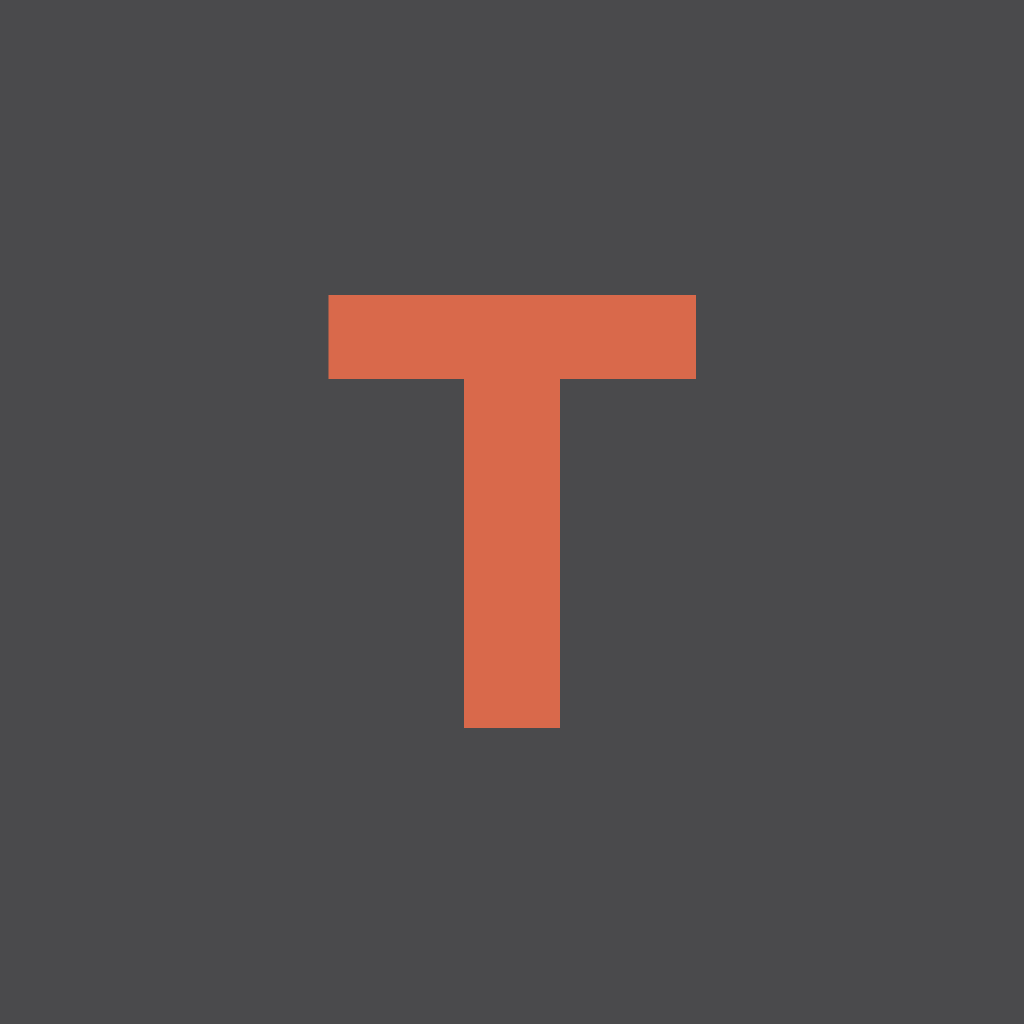
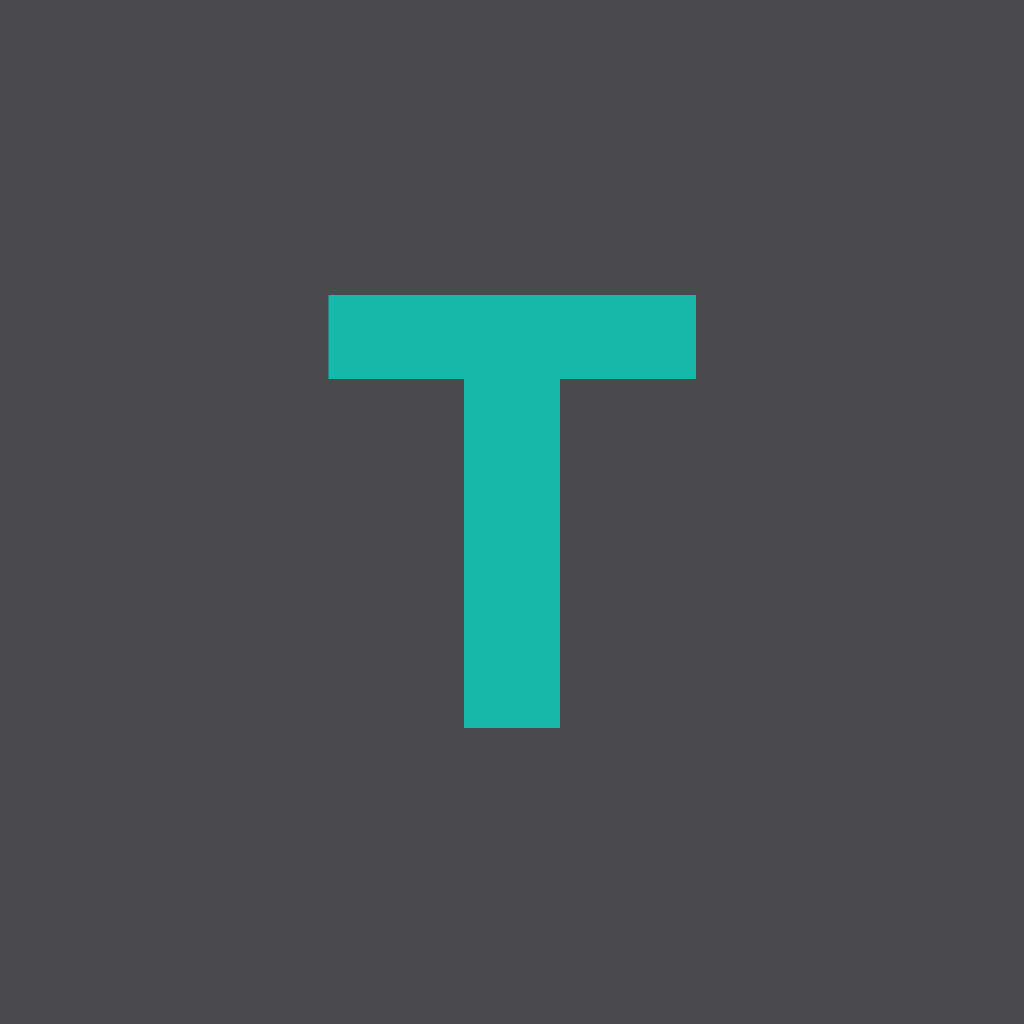
Refine Always On mode and switch the color palette from orange to teal
Always On mode: prioritizes the most popular nearby place (by rating
count, not just nearest), adds a configurable minimum gap between spoken
readings, and never interrupts a reading already in progress.

Palette: accent color is now a turquoise/teal instead of orange across
the app (theme, map markers, notification tint, PWA manifest, app icon),
with cooler neutral grays to match. Dark mode's background stays dark
gray/near-black as before.

Changed region(s): [[0.3125, 0.2812, 0.6875, 0.7188]]

diff --git a/app/src/services/proximity.ts b/app/src/services/proximity.ts
@@ -2,6 +2,7 @@ import AsyncStorage from '@react-native-async-storage/async-storage';
 import { createAudioPlayer } from 'expo-audio';
 import * as Speech from 'expo-speech';
 
+import { DEFAULT_READ_FREQUENCY_MINUTES, READ_FREQUENCY_STORAGE_KEY } from '@/hooks/use-always-on-frequency';
 import { PROXIMITY_CHANNEL_ID, presentNotification } from '@/services/notifications';
 import { fetchLocationFacts, fetchNearbyArticles, fetchNearbyPlaces, type NearbyPlace } from '@/services/api';
 import { sanitizeForSpeech } from '@/utils/speech-text';
@@ -12,6 +13,7 @@ import { sanitizeForSpeech } from '@/utils/speech-text';
 const CONTENT_MODE_KEY = 'traveltales:content-mode';
 const READ_PREFERENCE_KEY = 'traveltales:read-preference';
 const NOTIFIED_STORAGE_KEY = 'traveltales:always-on-notified';
+const LAST_SPOKEN_STORAGE_KEY = 'traveltales:always-on-last-spoken-at';
 
 // A tight "you're basically right next to this" radius — separate from the user's browse
 // radius setting, since a drive-by ping should only fire for things genuinely nearby.
@@ -29,6 +31,19 @@ interface NotifiedEntry {
 
 function placeKey(place: NearbyPlace): string {
   return `place:${place.id}`;
+}
+
+// Rating count is a much better "this is a well-known, popular spot" signal than rating
+// alone (a hidden gem can have a perfect 5.0 from 3 reviews) — sort on that first, with
+// rating as a tiebreaker, so the pick prioritizes fame over raw distance.
+function popularityScore(place: NearbyPlace): number {
+  const ratingCount = place.userRatingCount ?? 0;
+  const rating = place.rating ?? 0;
+  return ratingCount * 1000 + rating;
+}
+
+function byPopularity(places: NearbyPlace[]): NearbyPlace[] {
+  return [...places].sort((a, b) => popularityScore(b) - popularityScore(a));
 }
 
 async function loadNotified(): Promise<NotifiedEntry[]> {
@@ -106,7 +121,7 @@ export async function checkProximityAndNotify(coords: Coords): Promise<void> {
     return;
   }
 
-  const candidate = places.find((place) => !notified.some((entry) => entry.key === placeKey(place)));
+  const candidate = byPopularity(places).find((place) => !notified.some((entry) => entry.key === placeKey(place)));
   if (!candidate) return;
 
   await markNotified(notified, placeKey(candidate));
@@ -156,6 +171,20 @@ export async function checkProximityAndNotify(coords: Coords): Promise<void> {
   });
 
   if (autoRead) {
-    await playChimeThenSpeak(speakText);
+    const alreadySpeaking = await Speech.isSpeakingAsync();
+    const [lastSpokenAtRaw, frequencyRaw] = await Promise.all([
+      AsyncStorage.getItem(LAST_SPOKEN_STORAGE_KEY),
+      AsyncStorage.getItem(READ_FREQUENCY_STORAGE_KEY),
+    ]);
+    const lastSpokenAt = lastSpokenAtRaw ? Number(lastSpokenAtRaw) : 0;
+    const frequencyMinutes = frequencyRaw && Number(frequencyRaw) > 0 ? Number(frequencyRaw) : DEFAULT_READ_FREQUENCY_MINUTES;
+    const dueForNextRead = Date.now() - lastSpokenAt >= frequencyMinutes * 60 * 1000;
+
+    // Never cut off a reading in progress, and respect the configured minimum gap between
+    // readings so Always On mode isn't talking constantly through a dense stretch of stops.
+    if (!alreadySpeaking && dueForNextRead) {
+      await AsyncStorage.setItem(LAST_SPOKEN_STORAGE_KEY, String(Date.now())).catch(() => {});
+      await playChimeThenSpeak(speakText);
+    }
   }
 }

diff --git a/app/src/app/(tabs)/settings.tsx b/app/src/app/(tabs)/settings.tsx
@@ -7,6 +7,7 @@ import { ThemedText } from '@/components/themed-text';
 import { ThemedView } from '@/components/themed-view';
 import { MaxContentWidth, Spacing } from '@/constants/theme';
 import { useAlwaysOnMode } from '@/hooks/use-always-on-mode';
+import { READ_FREQUENCY_OPTIONS_MINUTES, useAlwaysOnFrequency } from '@/hooks/use-always-on-frequency';
 import { useContentMode, type ContentMode } from '@/hooks/use-content-mode';
 import { useReadPreference, type ReadPreference } from '@/hooks/use-read-preference';
 import { useTheme } from '@/hooks/use-theme';
@@ -62,6 +63,7 @@ export default function SettingsScreen() {
   const { mode, setMode } = useContentMode();
   const { preference, setPreference } = useReadPreference();
   const { enabled: alwaysOnEnabled, loading: alwaysOnLoading, error: alwaysOnError, setEnabled: setAlwaysOnEnabled } = useAlwaysOnMode();
+  const { frequencyMinutes, setFrequencyMinutes } = useAlwaysOnFrequency();
   const theme = useTheme();
 
   return (
@@ -159,6 +161,30 @@ export default function SettingsScreen() {
                 {alwaysOnError}
               </ThemedText>
             )}
+
+            <ThemedView style={[styles.frequencyRow, { borderTopColor: theme.border }]}>
+              <ThemedText type="small" themeColor="textSecondary">
+                Minimum time between readings
+              </ThemedText>
+              <ThemedView style={styles.frequencyChips}>
+                {READ_FREQUENCY_OPTIONS_MINUTES.map((minutes) => {
+                  const selected = minutes === frequencyMinutes;
+                  return (
+                    <Pressable
+                      key={minutes}
+                      onPress={() => setFrequencyMinutes(minutes)}
+                      style={[
+                        styles.frequencyChip,
+                        { backgroundColor: selected ? theme.accent : theme.backgroundSelected, borderColor: selected ? theme.accent : theme.border },
+                      ]}>
+                      <ThemedText type="smallBold" themeColor={selected ? 'accentContrast' : 'text'}>
+                        {minutes}m
+                      </ThemedText>
+                    </Pressable>
+                  );
+                })}
+              </ThemedView>
+            </ThemedView>
           </ThemedView>
 
           <ThemedText type="smallBold" style={styles.sectionSpacing}>
@@ -233,5 +259,22 @@ const styles = StyleSheet.create({
     borderRadius: Spacing.four,
     borderWidth: 1.5,
     padding: Spacing.three,
+  },
+  frequencyRow: {
+    marginTop: Spacing.one,
+    paddingTop: Spacing.three,
+    borderTopWidth: 1,
+    gap: Spacing.two,
+  },
+  frequencyChips: {
+    flexDirection: 'row',
+    flexWrap: 'wrap',
+    gap: Spacing.two,
+  },
+  frequencyChip: {
+    borderRadius: Spacing.five,
+    borderWidth: 1.5,
+    paddingVertical: Spacing.one,
+    paddingHorizontal: Spacing.three,
   },
 });

diff --git a/app/src/hooks/use-always-on-frequency.ts b/app/src/hooks/use-always-on-frequency.ts
@@ -1,0 +1,31 @@
+import AsyncStorage from '@react-native-async-storage/async-storage';
+import { useCallback, useEffect, useState } from 'react';
+
+// Read directly (no context/provider) by both the Settings screen and the background
+// proximity task (services/proximity.ts) — the task has no React tree to read a context
+// from, so both sides just go straight to AsyncStorage under this same key.
+export const READ_FREQUENCY_STORAGE_KEY = 'traveltales:always-on-read-frequency-minutes';
+export const READ_FREQUENCY_OPTIONS_MINUTES = [5, 10, 15, 30, 60];
+export const DEFAULT_READ_FREQUENCY_MINUTES = 15;
+
+export function useAlwaysOnFrequency() {
+  const [frequencyMinutes, setFrequencyMinutesState] = useState<number>(DEFAULT_READ_FREQUENCY_MINUTES);
+
+  useEffect(() => {
+    AsyncStorage.getItem(READ_FREQUENCY_STORAGE_KEY).then((stored) => {
+      const parsed = stored ? Number(stored) : NaN;
+      if (!Number.isNaN(parsed) && READ_FREQUENCY_OPTIONS_MINUTES.includes(parsed)) {
+        setFrequencyMinutesState(parsed);
+      }
+    });
+  }, []);
+
+  const setFrequencyMinutes = useCallback((minutes: number) => {
+    setFrequencyMinutesState(minutes);
+    AsyncStorage.setItem(READ_FREQUENCY_STORAGE_KEY, String(minutes)).catch(() => {
+      // Non-fatal: the setting still applies for this session even if persistence fails.
+    });
+  }, []);
+
+  return { frequencyMinutes, setFrequencyMinutes };
+}

diff --git a/app/src/constants/theme.ts b/app/src/constants/theme.ts
@@ -9,24 +9,24 @@ import { Platform } from 'react-native';
 
 export const Colors = {
   light: {
-    text: '#181511',
-    background: '#FAF8F5',
+    text: '#11181A',
+    background: '#F5F9F9',
     backgroundElement: '#FFFFFF',
-    backgroundSelected: '#FBE9E2',
-    textSecondary: '#6B6560',
-    accent: '#D9694B',
+    backgroundSelected: '#DEF4F1',
+    textSecondary: '#5B6D6C',
+    accent: '#0E9C90',
     accentContrast: '#FFFFFF',
-    border: '#EAE6E0',
+    border: '#E1ECEA',
   },
   dark: {
-    text: '#F4F1EC',
-    background: '#15130F',
-    backgroundElement: '#211D18',
-    backgroundSelected: '#3A2620',
-    textSecondary: '#A39C93',
-    accent: '#E0805F',
-    accentContrast: '#241207',
-    border: '#332C25',
+    text: '#E9F3F1',
+    background: '#101413',
+    backgroundElement: '#1B2120',
+    backgroundSelected: '#153330',
+    textSecondary: '#93A6A4',
+    accent: '#3ED8C7',
+    accentContrast: '#062420',
+    border: '#293634',
   },
 } as const;
 

diff --git a/app/src/app/(tabs)/trip.tsx b/app/src/app/(tabs)/trip.tsx
@@ -67,7 +67,7 @@ export default function TripScreen() {
             label:
               (index === 0 ? 'Start' : index === planner.entries.length - 1 ? 'End' : `Stop ${index}`) +
               (entry.label ? ` — ${entry.label}` : ''),
-            color: index === 0 || index === planner.entries.length - 1 ? '#208AEF' : '#D9694B',
+            color: index === 0 || index === planner.entries.length - 1 ? '#208AEF' : theme.accent,
           }
         : null
     )

diff --git a/app/src/app/(tabs)/map.tsx b/app/src/app/(tabs)/map.tsx
@@ -27,7 +27,7 @@ export default function MapScreenNative() {
 
   const markers: MapMarker[] = [];
   if (coords) markers.push({ id: 'me', coords, label: 'You are here', color: '#208AEF' });
-  if (pin) markers.push({ id: 'pin', coords: pin, label: 'Selected spot', color: '#D9694B' });
+  if (pin) markers.push({ id: 'pin', coords: pin, label: 'Selected spot', color: theme.accent });
 
   return (
     <ThemedView style={styles.container}>
